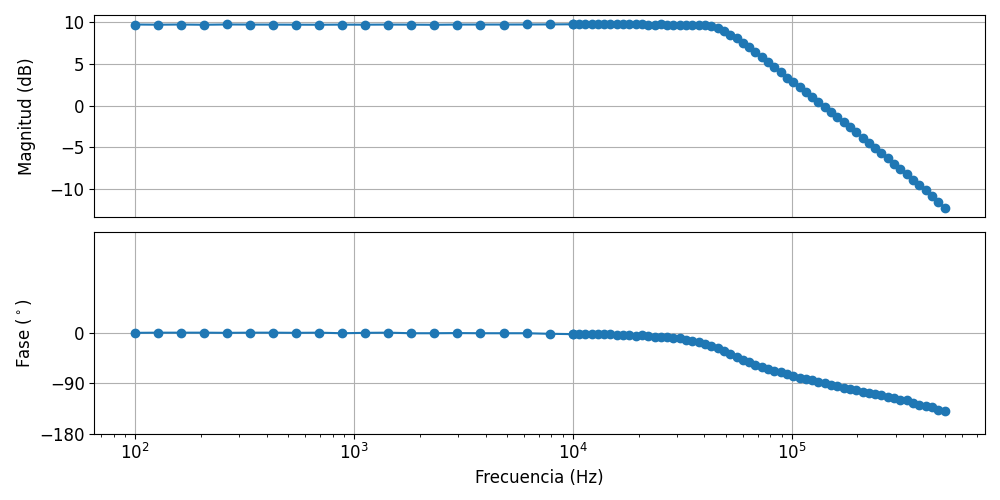
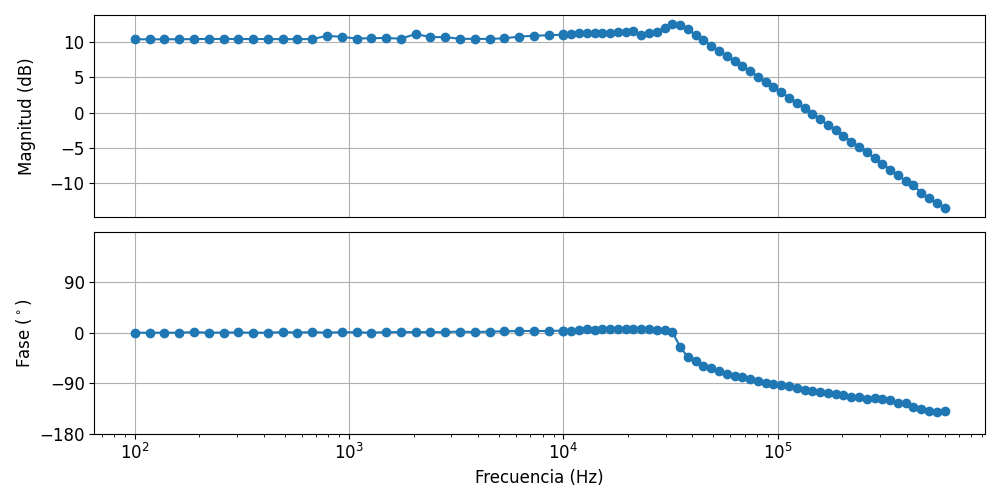
jamás actualicé nada

diff --git a/P2.py b/P2.py
@@ -5,17 +5,17 @@ import pyvisa as pv
 # Instrumento
 resources=pv.ResourceManager()
 resources.list_resources()
-instrumento=resources.open_resource('USB0::0x0957::0x179B::MY51250757::INSTR')
+instrumento=resources.open_resource('USB0::0x0957::0x179B::MY51250756::INSTR')
 
 
 # Parámetros
-pasos1=20
-pasos2=60
+pasos1=30
+pasos2=50
 pasos = pasos1+pasos2
 Vi=1
 f1=100
 fmid=10000
-f2=5e5
+f2=6e5
 freq=np.concatenate((np.logspace(np.log10(f1), np.log10(fmid), pasos1), np.logspace(np.log10(fmid), np.log10(f2), pasos2)))
 avg=8
 
@@ -31,7 +31,7 @@ instrumento.write('wgen:outp 1')
 instrumento.write(f'wgen:func sin;volt {Vi};freq {freq[0]};volt:offs 1')
 instrumento.write('autoscale')
 instrumento.write(f'chan1:range {Vi*2.5}V')
-instrumento.write('chan2:offset 3V')
+instrumento.write('chan2:offset 2V')
 instrumento.write('chan1:offset 1V')
 
 

diff --git a/P2_plots.py b/P2_plots.py
@@ -5,7 +5,7 @@ import Plotting as P
 
 
 # Medidas caja (grueso)
-freq, vi, vo, phase = np.loadtxt('try_flog100-10000-500000_steps80_avg8_Vin1.txt', unpack=True)
+freq, vi, vo, phase = np.loadtxt('try_flog100-10000-600000_steps80_avg8_Vin1.txt', unpack=True)
 magn = vo/vi
 
 P.bode_diagrams(freq, magn, phase, directory='final_try', show=True)
